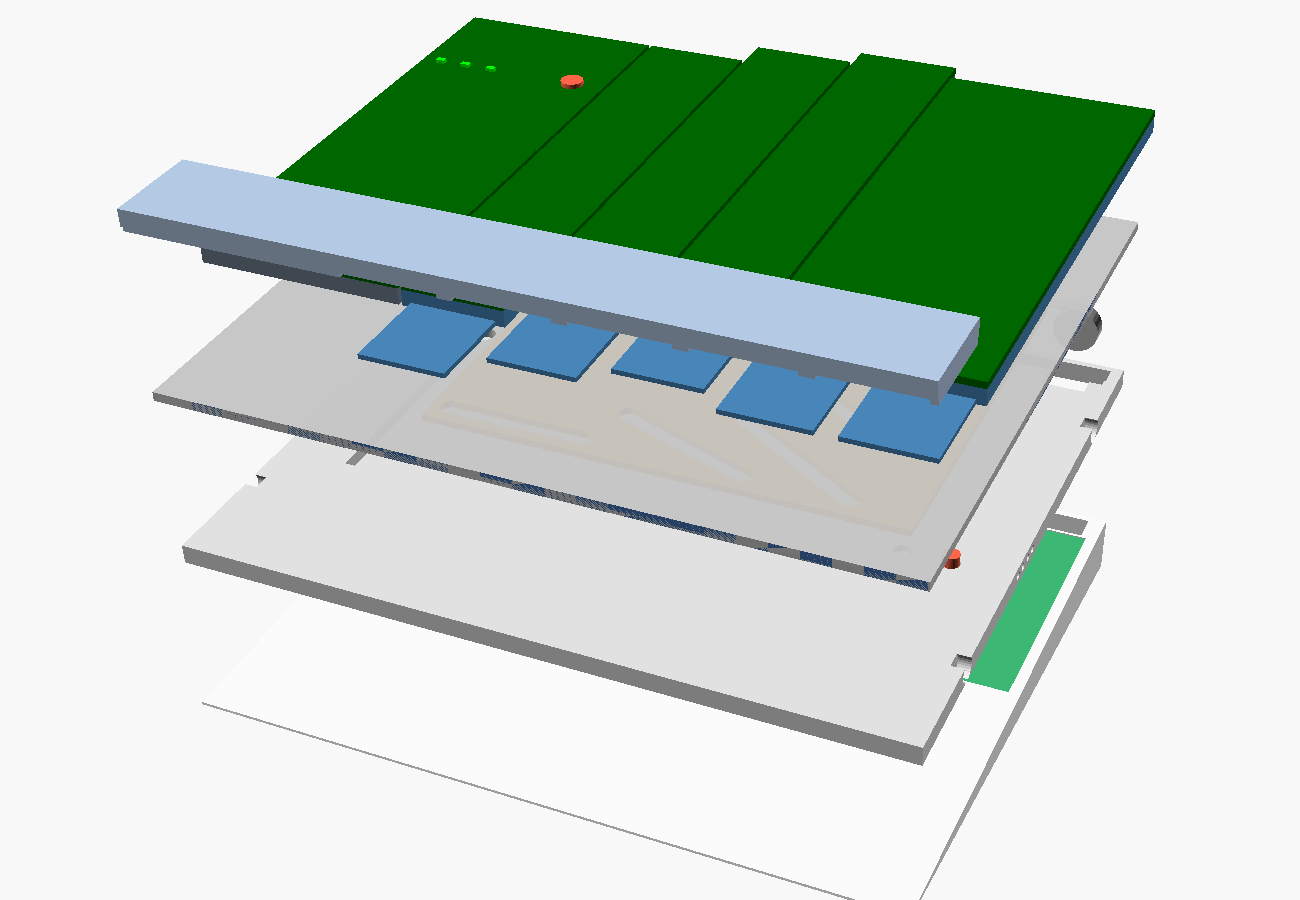
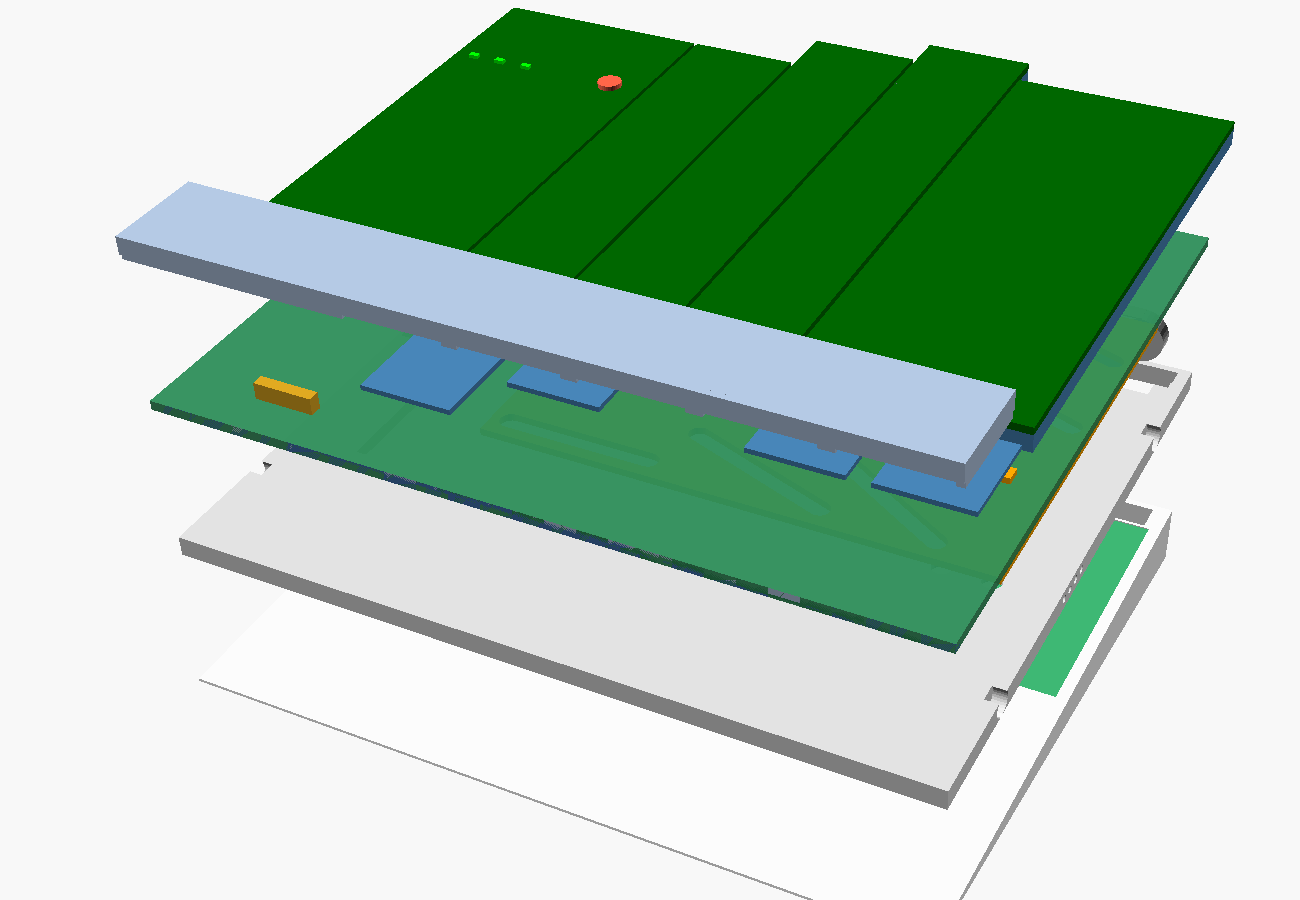
CAD v3: placa-mãe, placas por coluna e cabos flat em laço
- Chassi vira placa-mãe: conectores dos cabos flat, conector placa-a-placa do
  bloco fixo e da barra no lado de cima; MCU nRF52840, carregador, conector da
  bateria e USB-C no lado de baixo, na faixa fixa da borda.
- Cada coluna ganha conector próprio, janela no trenó e o laço do cabo flat
  (visual) que rola com o stagger.
- Bandeja e cunha com bolsos para os componentes, saída do USB-C e canal dos
  fios da bateria. 4 novas verificações de colisão (64 no total, todas livres).
- Simulação e README alinhados com as posições do CAD.

diff --git a/docs/simulacao.html b/docs/simulacao.html
@@ -66,7 +66,7 @@ footer{margin-top:48px;color:var(--t3);font-size:13px}
 </div>
 
 <h2>3 · Raio-x de cima: circuitos e conexões</h2>
-<p class="note">Embaixo de tudo está a placa-mãe (o próprio chassi, fixo). Em cima dela deslizam as colunas, cada uma com a sua placa. Nas partes fixas (bloco das 2 colunas externas e barra do polegar) ficam placas fixas, e embaixo do bloco fixo estão o microcontrolador, o carregador e o USB-C. Toque numa peça para ver o que é.</p>
+<p class="note">Embaixo de tudo está a placa-mãe (o próprio chassi, fixo). Em cima dela deslizam as colunas, cada uma com a sua placa. Nas partes fixas (bloco das 2 colunas externas e barra do polegar) ficam placas fixas. Microcontrolador, carregador e USB-C estão no lado de baixo da placa-mãe, na faixa fixa da borda, fora do caminho da placa-came. Toque numa peça para ver o que é.</p>
 <div class="card">
 <div class="ctrl" id="layers"><label><input type="checkbox" data-l="keys" checked> colunas (trenós)</label><label><input type="checkbox" data-l="pcb" checked> placas das colunas</label><label><input type="checkbox" data-l="main" checked> placa-mãe</label><label><input type="checkbox" data-l="ffc" checked> cabos flat</label><label><input type="checkbox" data-l="ele" checked> MCU, bateria, USB-C</label><label><input type="checkbox" data-l="con" checked> ímãs e pogo</label><label><input type="checkbox" data-l="mech"> placa-came</label><label><input type="checkbox" data-l="spr"> mola e trava</label></div>
 <svg viewBox="0 0 680 270" width="100%" id="xray" style="touch-action:manipulation"></svg>
@@ -175,11 +175,11 @@ G3.forEach(([x0,n,s,px,pys])=>pys.forEach(py=>{g+=ln(ox,mir,px,py,px,py+s+.01,'v
 if(LY.mech){g+=rr(ox,mir,12.8+t,30.3,97.2+t,99.95,'var(--amber-bg)','var(--amber)','Placa-came (embaixo da placa-mãe): desliza em X e empurra as colunas','opacity=".6"');
 G3.forEach(([x0,n,s,px,pys])=>pys.forEach(py=>{g+=ln(ox,mir,px+t,py,px-24+t,py+s,'var(--amber)',3.4*S,'Rasgo inclinado da placa-came','opacity=".8"')}))}
 if(LY.ele){g+=rr(ox,mir,48,54,124,100,'none','var(--green)','Bateria LiPo ~1800 mAh, na cunha (abaixo da placa-mãe)','stroke-dasharray="4 3"');
-g+=rr(ox,mir,6,60,19,78,'var(--acc-bg)','var(--acc)','Microcontrolador nRF52840 (módulo 13 × 18 mm) na placa-mãe, embaixo do bloco fixo');
-g+=rr(ox,mir,22,86,28,92,'var(--acc-bg)','var(--acc)','Carregador da bateria + regulador');
-g+=rr(ox,mir,9,98,18,107.5,'var(--t2)','none','USB-C na borda de trás da placa-mãe: carga e firmware');
-g+=rr(ox,mir,30,96,36,100,'var(--acc-bg)','var(--acc)','Conector da bateria (fios descem para a cunha)');
-g+=ln(ox,mir,33,96,48,80,'var(--green)',1,'Fios da bateria','stroke-dasharray="3 2"');
+g+=rr(ox,mir,1,62,11,77.5,'var(--acc-bg)','var(--acc)','Microcontrolador nRF52840 (módulo 10 × 15,5 mm) no lado de baixo da placa-mãe, na faixa fixa da borda');
+g+=rr(ox,mir,2,81,10,87,'var(--acc-bg)','var(--acc)','Carregador da bateria + regulador (lado de baixo da placa-mãe)');
+g+=rr(ox,mir,2.5,99.5,11.5,107.5,'var(--t2)','none','USB-C na borda de trás da placa-mãe: carga e firmware');
+g+=rr(ox,mir,3,89,9,93,'var(--acc-bg)','var(--acc)','Conector da bateria (lado de baixo); os fios correm num canal da cunha');
+g+=ln(ox,mir,9,91,48,91,'var(--green)',1,'Fios da bateria no canal da cunha','stroke-dasharray="3 2"');
 if(!mir)[4,9,14].forEach((x,i)=>{g+=cc(ox,mir,x,87.25,1.1,i==0?'var(--ok)':'var(--b2)','none','LED de aparelho (1, 2, 3), na placa do bloco fixo')})}
 if(LY.keys){G3.forEach(([x0,n,s])=>{const d=s*u3;g+=rr(ox,mir,x0+.3,17+d,x0+n*18-.3,106.5+d,'var(--blue-bg)','var(--blue)','Coluna móvel (trenó impresso + placa da coluna)','opacity=".35"')});
 g+=rr(ox,mir,.3,17,35.7,106.5,'var(--gray-bg)','var(--b3)','Bloco fixo: 2 colunas externas que não se movem','opacity=".35"');
@@ -187,8 +187,8 @@ g+=rr(ox,mir,0,0,126,16.7,'var(--gray-bg)','var(--b3)','Barra do polegar (fixa)'
 if(LY.pcb){G3.forEach(([x0,n,s])=>{const d=s*u3;g+=rr(ox,mir,x0+1.3,18+d,x0+n*18-1.3,105.5+d,'none','var(--green)',n==2?'Placa da coluna do indicador (2 colunas, 10 switches, 10 diodos)':'Placa da coluna (5 switches Choc hot-swap + 5 diodos). As 3 colunas de 1u usam a mesma placa.','stroke-width="1.4"')});
 g+=rr(ox,mir,1.3,18,34.7,105.5,'none','var(--green)','Placa do bloco fixo: esc, Yggi, `, tab, caps, shift, LEDs e botão','stroke-width="1.4"');
 g+=rr(ox,mir,1.3,1.3,124.7,15.4,'none','var(--green)','Placa da barra do polegar (fixa)','stroke-width="1.4"');
-g+=rr(ox,mir,12,40,26,43,'var(--green)','none','Conector placa-a-placa: bloco fixo ↔ placa-mãe (não se move)');
-g+=rr(ox,mir,14,6,24,9,'var(--green)','none','Conector da barra do polegar ↔ placa-mãe (desce pelas pernas da barra)')}
+g+=rr(ox,mir,17,86,27,88.5,'var(--green)','none','Conector placa-a-placa: bloco fixo ↔ placa-mãe, na faixa entre as fileiras F e números');
+g+=rr(ox,mir,14,7,24,9,'var(--green)','none','Conector da barra do polegar ↔ placa-mãe (passa pelo apoio da barra)')}
 if(LY.ffc){G3.forEach(([x0,n,s])=>{const d=s*u3,xl=LANE[x0],ya=51+d/2;
 g+=rr(ox,mir,xl,36,xl+5,ya+1.2,'var(--warn-bg)','var(--warn)','Cabo flat de 8 vias em laço rolante: liga a placa da coluna à placa-mãe e rola quando a coluna anda','rx="2"');
 g+=rr(ox,mir,xl-.5,33.5,xl+5.5,36,'var(--warn)','none','Conector na placa-mãe (fixo)');
@@ -203,7 +203,7 @@ if(LY.con&&joined3){const yA=Y(48.75);g+=`<path data-n="Com os módulos encaixad
 g+=`<path data-n="Pogo da baia: o teclado alimenta e conversa com o e-reader" d="M${lx+12*S} ${yA} H${bx+64*S}" fill="none" stroke="var(--amber)" stroke-width="1.2" stroke-dasharray="5 3"/>`}
 g+=`<text x="${bx+36*S}" y="${H-4}" font-size="11" fill="var(--t2)" text-anchor="middle">baia</text><text x="${lx+63*S}" y="${H-4}" font-size="11" fill="var(--t2)" text-anchor="middle">metade esquerda</text><text x="${rx+63*S}" y="${H-4}" font-size="11" fill="var(--t2)" text-anchor="middle">metade direita</text>`;
 svg.innerHTML=g;$('#pc3').textContent=Math.round(u3*150)+'%';
-stats($('#st3'),[['Placas por metade','7','mãe + 4 colunas + bloco + barra'],['Placas diferentes','5','3 colunas de 1u são iguais'],['Cabo flat','8 vias × 4','laço rolante, 15 mm de curso'],['MCU','nRF52840','na placa-mãe, parte fixa']])}
+stats($('#st3'),[['Placas por metade','7','mãe + 4 colunas + bloco + barra'],['Placas diferentes','5','3 colunas de 1u são iguais'],['Cabo flat','8 vias × 4','laço rolante, 15 mm de curso'],['MCU','nRF52840','lado de baixo da placa-mãe']])}
 $('#xray').addEventListener('mouseover',e=>{const el=e.target.closest('[data-n]');if(el&&el.dataset.n)$('#xinfo').textContent=el.dataset.n});
 $('#xray').addEventListener('click',e=>{const el=e.target.closest('[data-n]');if(el&&el.dataset.n)$('#xinfo').textContent=el.dataset.n});
 $$('#layers input').forEach(c=>c.onchange=()=>{LY[c.dataset.l]=c.checked?1:0;drawXray()});
@@ -217,7 +217,7 @@ const ar=(x1,y1,x2,y2,dash,label,lx,ly)=>`<line x1="${x1}" y1="${y1}" x2="${x2}"
 g+=box(20,20,190,92,'Placas das colunas ×4',['móveis · 5 switches + 5 diodos','3 iguais (1u) + 1 de 2u'],'var(--blue-bg)','var(--blue)');
 g+=box(20,130,190,76,'Placa do bloco fixo',['esc, Yggi, `, tab, caps, shift','LEDs + botão'],'var(--gray-bg)','var(--b3)');
 g+=box(20,224,190,70,'Placa da barra do polegar',['fixa · ⌘, espaço, setas…'],'var(--gray-bg)','var(--b3)');
-g+=box(270,90,190,150,'Placa-mãe (chassi)',['FR4 1,6 mm · fixa','MCU nRF52840','carregador + regulador','USB-C · ESD','matriz 6 × 7 → 13 GPIO'],'var(--green-bg)','var(--green)');
+g+=box(270,90,190,150,'Placa-mãe (chassi)',['FR4 1,6 mm · fixa','MCU nRF52840 (embaixo)','carregador + regulador','USB-C · ESD','matriz 6 × 7 → 13 GPIO'],'var(--green-bg)','var(--green)');
 g+=box(520,20,140,76,'Bateria',['LiPo ~1800 mAh','na cunha traseira'],'var(--green-bg)','var(--green)');
 g+=box(520,130,140,76,'Outra metade',['pogo: VBUS, GND,','TX, RX + ímãs'],'var(--acc-bg)','var(--acc)');
 g+=box(520,224,140,70,'Baia / e-reader',['pogo 5 vias + ímãs'],'var(--acc-bg)','var(--acc)');

diff --git a/README.md b/README.md
@@ -30,9 +30,13 @@ O nome é uma homenagem a Yggdrasil, a árvore que liga os nove mundos da mitolo
 
 ![lateral](docs/media/v3-lateral.png)
 
-**Metade esquerda explodida** (cunha com bateria e MCU, bandeja, placa-came, chassi, gavetas, bloco fixo e barra do polegar):
+**Metade esquerda explodida** (cunha com bateria, bandeja, placa-came, placa-mãe com os cabos flat, colunas, bloco fixo e barra do polegar):
 
 ![explodida](docs/media/v3-explodida.png)
+
+**Placa-mãe** (o chassi): conectores dos cabos flat das colunas, conector do bloco fixo, conector da barra e os rasgos-guia. Por baixo, na borda, ficam o MCU, o carregador e o USB-C:
+
+![placa-mãe](docs/media/v3-placa-mae.png)
 
 ---
 
@@ -75,7 +79,7 @@ Cada metade, de baixo para cima:
 | | |
 |---|---|
 | **Placas por metade** | **7**: a placa-mãe (o chassi), **uma por coluna móvel** (4, sendo 3 iguais de 1u e 1 de 2u), a do bloco fixo e a da barra do polegar. |
-| **Microcontrolador** | um **nRF52840** por metade (módulo de 13 × 18 mm), **soldado na placa-mãe, embaixo do bloco fixo**, junto com o carregador e o USB-C na borda de trás. |
+| **Microcontrolador** | um **nRF52840** por metade (módulo de ~10 × 15,5 mm, ex.: Raytac MDBT50Q), **no lado de baixo da placa-mãe, na faixa fixa da borda** (x < 12 mm), junto com o carregador e o USB-C na borda de trás. Em cima da placa-mãe não cabe: ali ficam os soquetes das teclas do bloco fixo. |
 | **Por que nRF52840** | é o chip mais bem suportado pelo ZMK. Tem 21 GPIO, o suficiente para a matriz 6 × 7 mais os 3 LEDs. |
 | **Firmware** | [ZMK](https://zmk.dev) (Zephyr, MIT): Bluetooth, split sem fio, 5 perfis de computador, bateria. Funções do Yggi (tecla de troca, LEDs, conversa com o e-reader) entram como **módulos ZMK** próprios. |
 | **Bateria** | LiPo de 4 mm na cunha, ~1800 mAh por metade (76 × 46 mm). A cunha comporta células maiores se a inclinação aumentar. |
